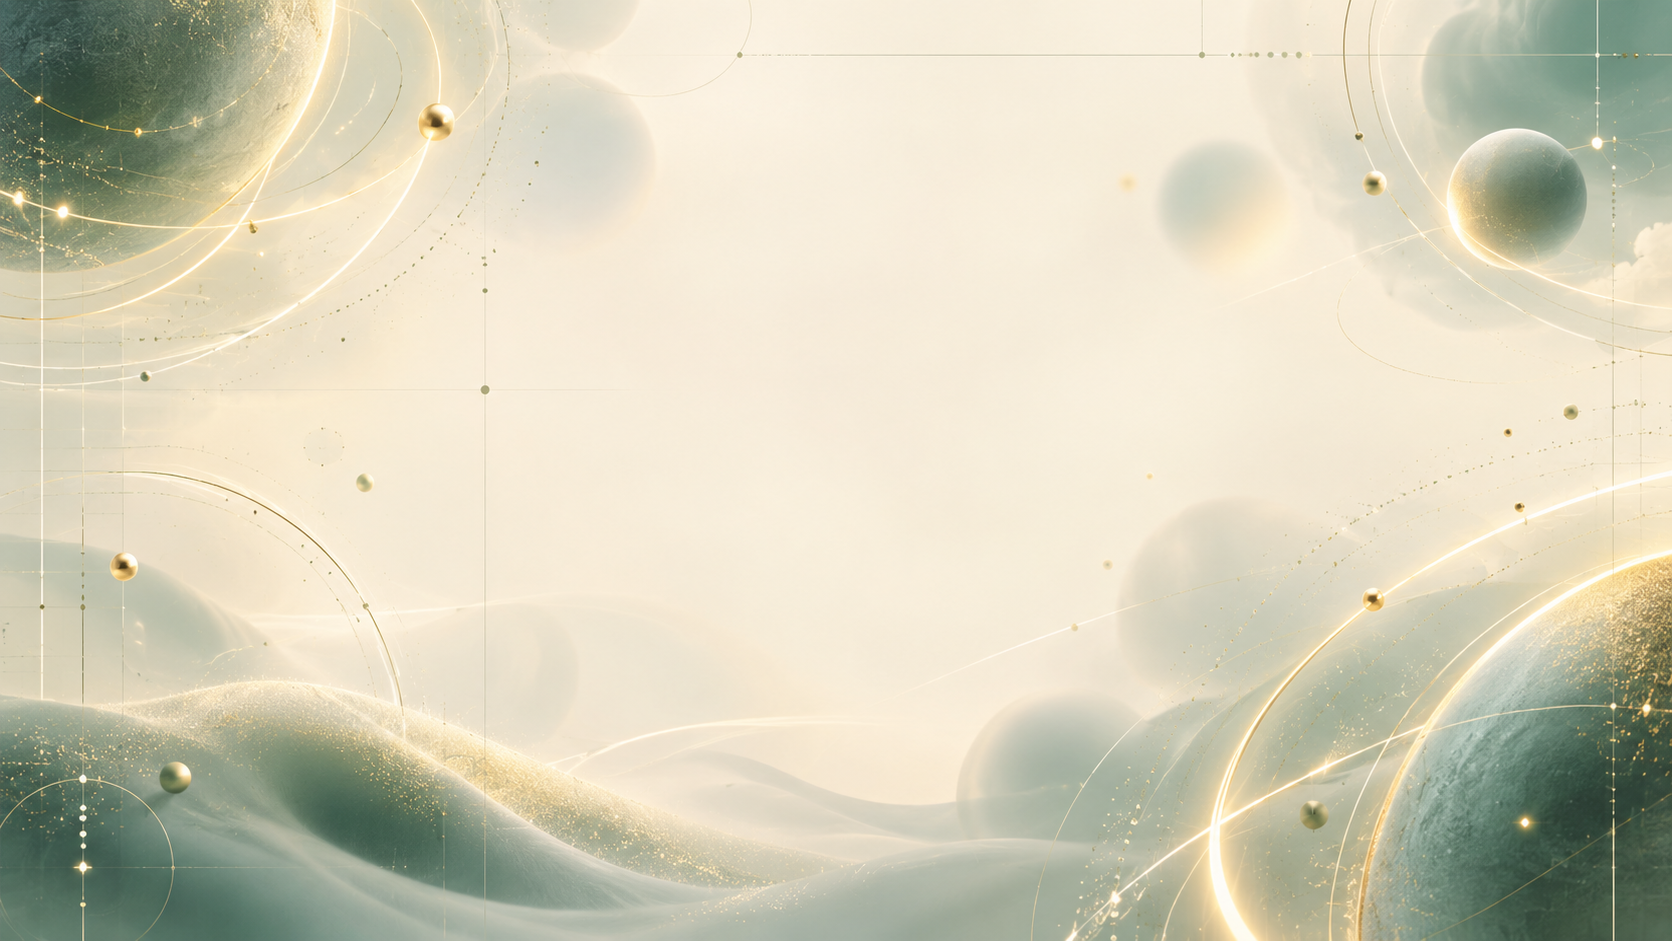
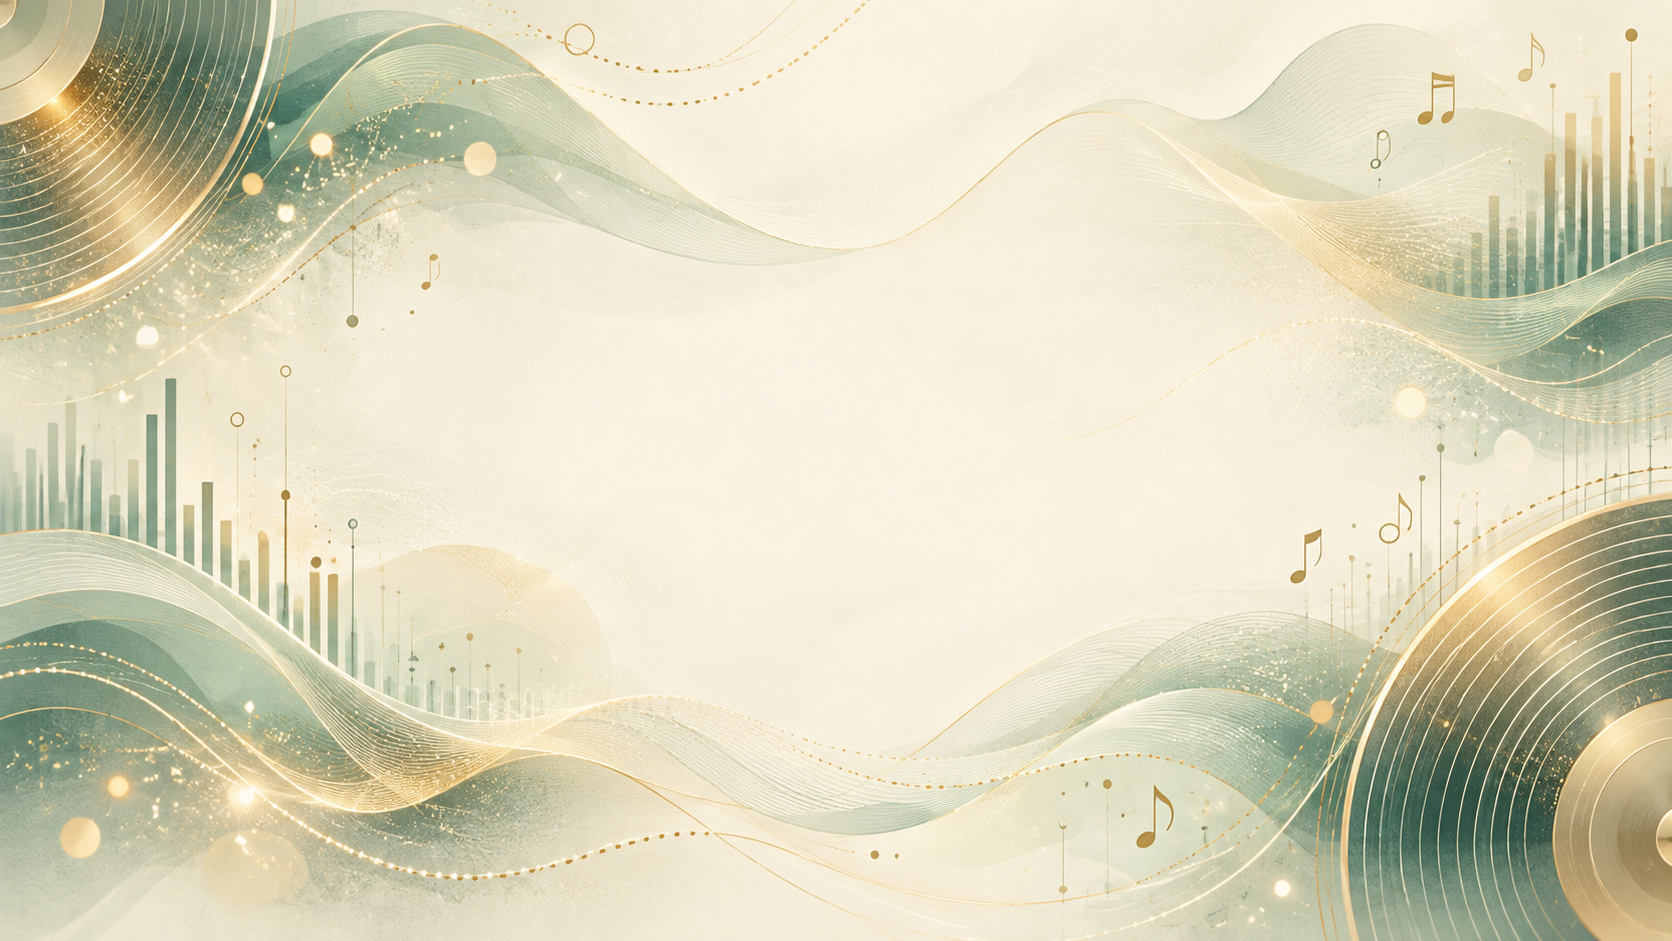
Use musical atmosphere background at full visibility

diff --git a/src/styles.css b/src/styles.css
@@ -5571,8 +5571,8 @@ body::before {
   z-index: 0;
   pointer-events: none;
   background: url('/neurobeats-atmosphere.png') center / cover no-repeat;
-  filter: saturate(1.35) contrast(1.18) brightness(0.92);
-  opacity: 0.8;
+  filter: saturate(1.44) contrast(1.22) brightness(0.98);
+  opacity: 1;
 }
 body::after { display: none !important; content: none !important; }
 
